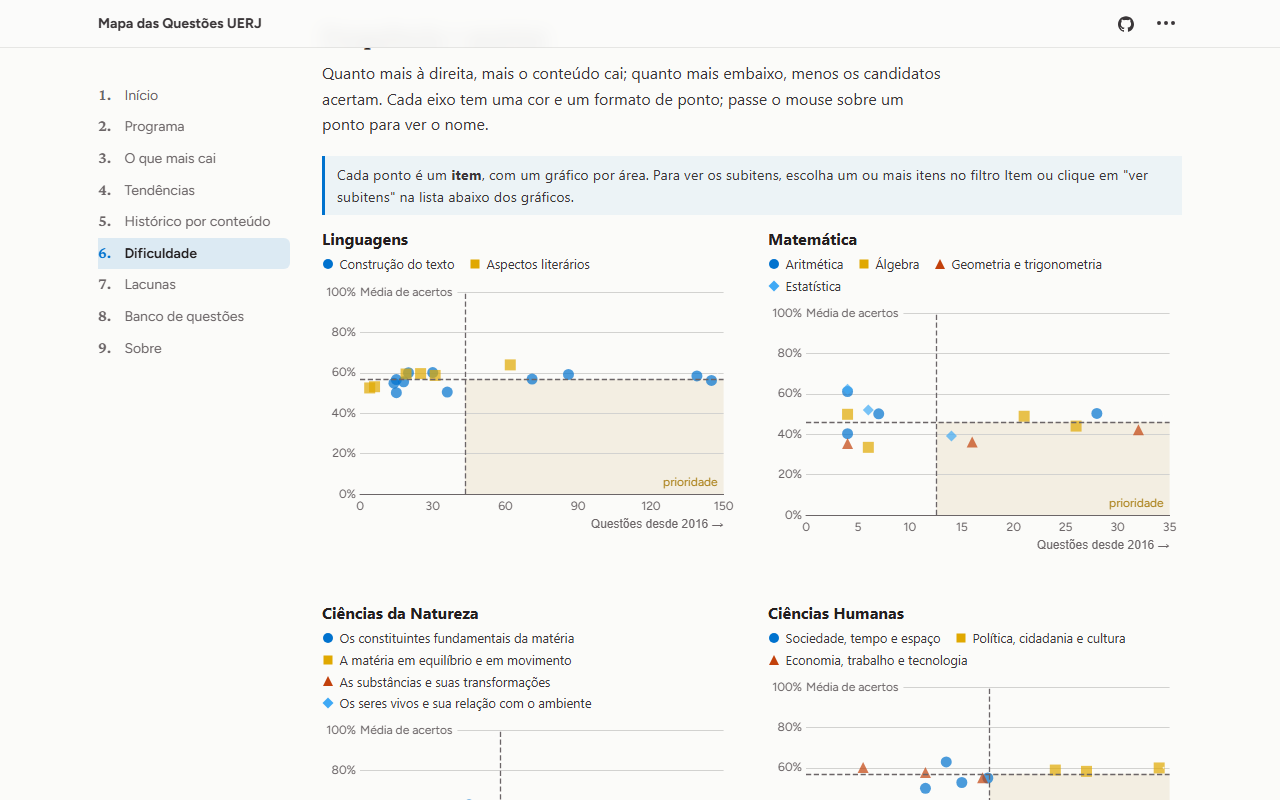
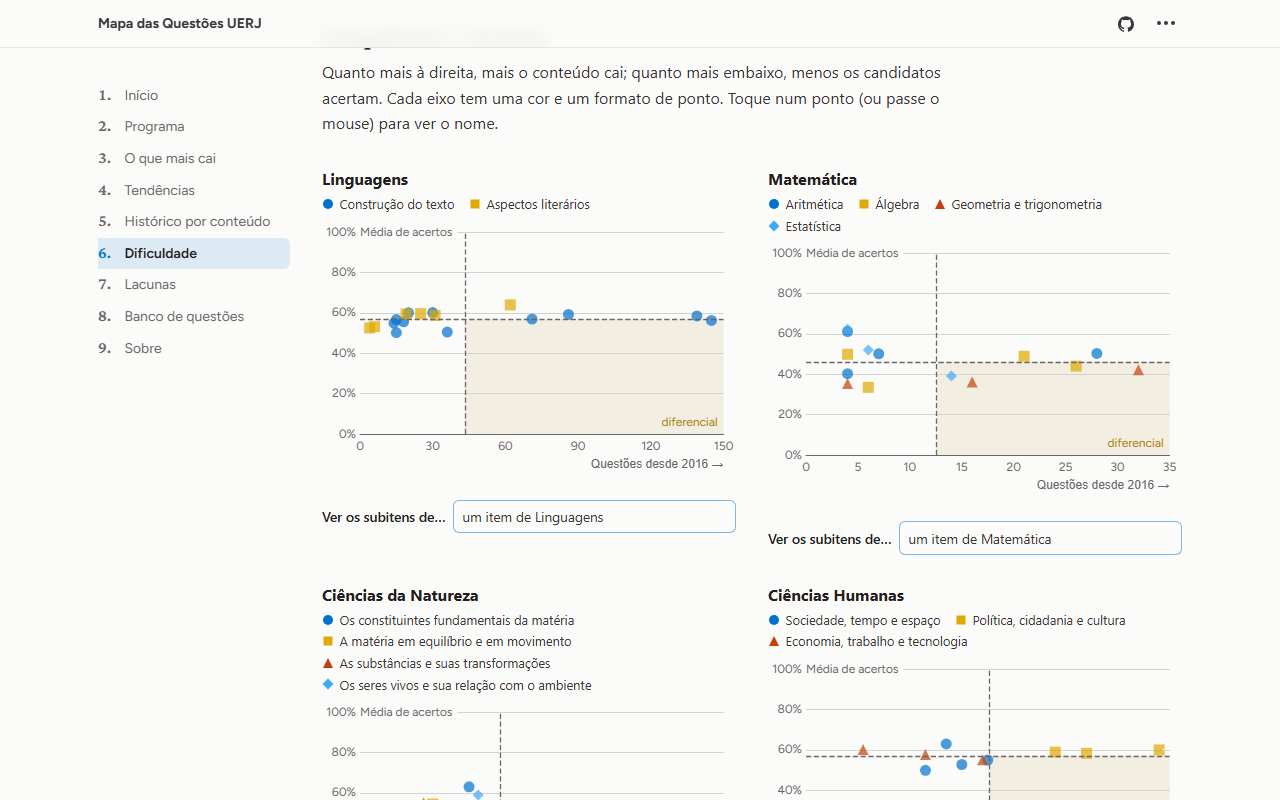
Dificuldade: "prioridade" vira "diferencial"
A faixa do gráfico (cai mais e acerta menos que a média) passa a se chamar
"diferencial": saber esses conteúdos destaca o candidato, porque a maioria erra.
O ranking de erros vira "Onde mais se perde ponto". Sobre, Início e README
acompanham.

diff --git a/site/pages/dificuldade.md b/site/pages/dificuldade.md
@@ -1,6 +1,6 @@
 ---
 title: Dificuldade
-description: Onde os candidatos mais erram e o que cai muito e tem poucos acertos, por item e por subitem.
+description: Onde os candidatos mais erram e o que é um diferencial saber, por item e por subitem.
 sidebar_position: 6
 ---
 
@@ -23,7 +23,7 @@ sidebar_position: 6
   const limparFiltros = () => (sel = conteudo.inicial(hier));
 
   // Nível do detalhe: com todos os itens marcados, a página mostra itens; com só alguns itens marcados, mostra os
-  // subitens deles. Toda a página (prioridade, gráficos, listas) segue o mesmo nível.
+  // subitens deles. Toda a página (pontos perdidos, gráficos, listas) segue o mesmo nível.
   $: porSubitem = !!sel && (opc.itens ?? []).length > 0 && sel.itens.length < opc.itens.length;
   $: nivel = porSubitem ? 'subitem' : 'item';
   $: Nivel = porSubitem ? 'Subitem' : 'Item';
@@ -90,7 +90,7 @@ sidebar_position: 6
       : lista.sort((a, b) => AREAS.indexOf(a.chave) - AREAS.indexOf(b.chave));
   })();
   const opcoesGrafico = (g) => ({ series: g.eixos.map((e) => ({ symbol: estiloEixo[e]?.forma ?? 'circle' })) });
-  $: naPrioridade = grupos
+  $: naFaixaDiferencial = grupos
     .flatMap((g) =>
       g.pontos.length > 1 ? g.pontos.filter((p) => Number(p.questoes) > g.mediaQ && Number(p.media) < g.mediaA) : []
     )
@@ -105,7 +105,8 @@ poucos acertos**. Dá para ver por **item** e descer até os **subitens** de cad
 
 <ol class="como-usar">
   <li>Escolha a área, o eixo ou o item nos filtros, ou deixe tudo marcado.</li>
-  <li>Veja o que está na faixa de <b>prioridade</b> do gráfico de frequência × acertos e na lista logo abaixo dele.</li>
+  <li>Veja o que está na faixa de <b>diferencial</b> do gráfico de frequência × acertos e na lista logo abaixo dele:
+  conteúdos que caem bastante e que a maioria erra.</li>
   <li>Para ver os <b>subitens</b> de um item, toque em "ver subitens" na lista, use "Ver os subitens de…" embaixo de cada
   gráfico ou marque o item no filtro Item.</li>
 </ol>
@@ -176,12 +177,12 @@ where d.nivel in ${inputs.niveis_dificuldade.value}
     and d.qtd_questoes >= ${inputs.minimo.value}
 ```
 
-## Prioridade de estudo
+## Onde mais se perde ponto
 
 Para cada {nivel}, as questões desde 2016 vezes a taxa de erro média: quantas dessas questões um candidato típico
-errou. Quanto maior, mais o conteúdo pesa e mais derruba.
+errou. São os pontos que a maioria deixa na prova.
 
-```sql prioridade
+```sql pontos_perdidos
 select
     case when length(r) > 48 then left(r, 47) || '…' else r end as rotulo,
     area,
@@ -199,7 +200,7 @@ limit 15
 ```
 
 <BarChart
-  data={prioridade}
+  data={pontos_perdidos}
   x=rotulo
   y=erros_esperados
   series=area
@@ -262,7 +263,7 @@ um formato de ponto. Toque num ponto (ou passe o mouse) para ver o nome.
       chartAreaHeight=220
     >
       {#if g.pontos.length > 1}
-        <ReferenceArea xMin={g.mediaQ} yMin={0} yMax={g.mediaA} color="accent" label="prioridade" labelPosition="bottomRight" />
+        <ReferenceArea xMin={g.mediaQ} yMin={0} yMax={g.mediaA} color="accent" label="diferencial" labelPosition="bottomRight" />
         <ReferenceLine y={g.mediaA} hideValue=true lineType=dashed />
         <ReferenceLine x={g.mediaQ} hideValue=true lineType=dashed />
       {/if}
@@ -286,13 +287,14 @@ um formato de ponto. Toque num ponto (ou passe o mouse) para ver o nome.
   <span><svg width="28" height="10" aria-hidden="true"><line x1="0" y1="5" x2="28" y2="5" class="tracejado" /></svg>
     <span>média do gráfico: a linha em pé marca o número médio de questões; a deitada, a média de acertos</span></span>
   <span><svg width="28" height="12" aria-hidden="true"><rect width="28" height="12" class="faixa" /></svg>
-    <span><b>prioridade</b>: cai mais que a média e tem menos acertos que a média. Comece por eles.</span></span>
+    <span><b>diferencial</b>: cai mais que a média e tem menos acertos que a média. Saber esses conteúdos é um
+    diferencial, porque a maioria erra.</span></span>
 </div>
 
-### Na faixa de prioridade
+### Conteúdos que são um diferencial
 
-{#if naPrioridade.length}
-<div class="tabela-prioridade">
+{#if naFaixaDiferencial.length}
+<div class="tabela-diferencial">
 <table>
   <thead>
     <tr>
@@ -305,7 +307,7 @@ um formato de ponto. Toque num ponto (ou passe o mouse) para ver o nome.
     </tr>
   </thead>
   <tbody>
-    {#each naPrioridade as p (p.id_conteudo)}
+    {#each naFaixaDiferencial as p (p.id_conteudo)}
       <tr>
         <td>{p.conteudo}<span class="acima-celular">{porSubitem ? p.item : p.eixo}</span></td>
         <td class="opcional">{porSubitem ? p.item : p.eixo}</td>
@@ -320,7 +322,7 @@ um formato de ponto. Toque num ponto (ou passe o mouse) para ver o nome.
 </div>
 <p class="nota">* Erradas: quantas dessas questões um candidato típico errou (questões × taxa de erro).</p>
 {:else}
-<p class="vazio">Nenhum conteúdo na faixa de prioridade nesta seleção.</p>
+<p class="vazio">Nenhum conteúdo na faixa de diferencial nesta seleção.</p>
 {/if}
 
 ## {porSubitem ? 'Todos os subitens' : 'Todos os itens'}
@@ -441,12 +443,12 @@ A média é a das questões da seleção dos filtros. Faltam 2021, 2024-2 e 2027
   .tracejado { stroke: hsl(var(--twc-base-content-muted)); stroke-width: 1.3; stroke-dasharray: 4 3; }
   .faixa { fill: hsl(var(--twc-accent) / 0.25); }
 
-  .tabela-prioridade { overflow-x: auto; }
-  .tabela-prioridade table { width: 100%; border-collapse: collapse; font-size: 0.875rem; }
-  .tabela-prioridade th { text-align: left; font-weight: 650; padding: 0.4rem 0.5rem;
+  .tabela-diferencial { overflow-x: auto; }
+  .tabela-diferencial table { width: 100%; border-collapse: collapse; font-size: 0.875rem; }
+  .tabela-diferencial th { text-align: left; font-weight: 650; padding: 0.4rem 0.5rem;
                           border-bottom: 1px solid hsl(var(--twc-base-content) / 0.3); color: hsl(var(--twc-base-heading)); }
-  .tabela-prioridade td { padding: 0.45rem 0.5rem; border-bottom: 1px solid hsl(var(--twc-base-content) / 0.1); vertical-align: top; }
-  .tabela-prioridade .num { text-align: right; font-variant-numeric: tabular-nums; }
+  .tabela-diferencial td { padding: 0.45rem 0.5rem; border-bottom: 1px solid hsl(var(--twc-base-content) / 0.1); vertical-align: top; }
+  .tabela-diferencial .num { text-align: right; font-variant-numeric: tabular-nums; }
   .acima-celular { display: none; font-size: 0.78rem; color: hsl(var(--twc-base-content-muted)); }
   .ver { white-space: nowrap; padding: 0.3rem 0.6rem; border-radius: 5px; font-size: 0.8rem; font-weight: 600;
          border: 1px solid hsl(var(--twc-primary) / 0.5); color: hsl(var(--twc-primary)); background: transparent; }
@@ -458,9 +460,9 @@ A média é a das questões da seleção dos filtros. Faltam 2021, 2024-2 e 2027
     .passo { display: none; }
     .voltar { margin-left: 0; width: 100%; }
     .detalhar select { flex-basis: 100%; }
-    /* na lista de prioridade, o eixo (ou item) vai para baixo do nome e a coluna dele some */
-    .tabela-prioridade .opcional { display: none; }
+    /* na lista de diferencial, o eixo (ou item) vai para baixo do nome e a coluna dele some */
+    .tabela-diferencial .opcional { display: none; }
     .acima-celular { display: block; }
-    .tabela-prioridade td, .tabela-prioridade th { padding: 0.45rem 0.3rem; }
+    .tabela-diferencial td, .tabela-diferencial th { padding: 0.45rem 0.3rem; }
   }
 </style>

diff --git a/README.md b/README.md
@@ -24,7 +24,7 @@ e mostra em que conteúdo do programa cada uma caiu, segundo o gabarito comentad
 
 - **Ver o que mais cai**, filtrando por vestibular, exame, área, disciplina, eixo e item.
 - **Acompanhar tendências:** o que cai em quase toda prova, o que está em alta e o que sumiu mas costuma voltar.
-- **Achar a prioridade de estudo:** o que cai muito e tem poucos acertos.
+- **Descobrir o diferencial:** o que cai bastante e a maioria erra.
 - **Consultar o programa inteiro**, com busca e o que já caiu de cada conteúdo.
 - **Ver o que nunca caiu** e está no edital.
 - **Abrir qualquer questão** no PDF oficial da prova ou do gabarito comentado, direto na página dela.
@@ -32,11 +32,11 @@ e mostra em que conteúdo do programa cada uma caiu, segundo o gabarito comentad
 <table>
   <tr>
     <td><img src="docs/imagens/o-que-mais-cai.png" alt="Ranking dos itens que mais caem, por área"></td>
-    <td><img src="docs/imagens/dificuldade.png" alt="Frequência × acertos por área, com a faixa de prioridade"></td>
+    <td><img src="docs/imagens/dificuldade.png" alt="Frequência × acertos por área, com a faixa de diferencial"></td>
   </tr>
   <tr>
     <td align="center">O que mais cai</td>
-    <td align="center">Dificuldade e prioridade de estudo</td>
+    <td align="center">Dificuldade: o que é diferencial saber</td>
   </tr>
   <tr>
     <td><img src="docs/imagens/historico.png" alt="Mapa de calor dos itens de um eixo, exame a exame"></td>

diff --git a/site/pages/sobre.md b/site/pages/sobre.md
@@ -59,7 +59,8 @@ simulados.
 | **Intervalo normal** | O número médio de exames entre uma cobrança e a seguinte. |
 | **Atraso** | Exames desde a última cobrança divididos pelo intervalo normal (só para o que caiu 3 vezes ou mais). |
 | **Sumido que costuma voltar** | Do edital vigente, caiu 3 vezes ou mais e está com atraso de 1,5 ou mais (no mínimo 2 exames sem cair). |
-| **Prioridade de estudo** | Questões do item × taxa média de erro: quantas questões do item um candidato típico errou. |
+| **Pontos perdidos** | Questões do conteúdo × taxa média de erro: quantas dessas questões um candidato típico errou. |
+| **Diferencial** | Conteúdo que cai mais que a média e tem menos acertos que a média: saber é um diferencial, porque a maioria erra. |
 | **Lacuna** | Subitem do edital de 2027 em que nenhuma questão foi classificada desde 2016. *Antiga*: está no edital desde antes de 2021; *recente*: entrou em 2021 ou depois. Lacuna não quer dizer que não vai cair. |
 
 Todos descrevem o que já aconteceu. A banca não segue uma fila, então nenhum deles é previsão da próxima prova.

diff --git a/site/pages/index.md b/site/pages/index.md
@@ -150,7 +150,7 @@ Ciências da Natureza ganha espaço e Linguagens perde.
   <a href="/painel"><b>O que mais cai</b><span>Filtre vestibular, exame, área, disciplina, eixo e item e veja o ranking em cada nível, com as questões e os links das provas.</span></a>
   <a href="/tendencias"><b>Tendências</b><span>O que está em alta, o que caiu em quase toda prova e o que sumiu mas costuma voltar.</span></a>
   <a href="/historico"><b>Histórico por conteúdo</b><span>Exame a exame, em que prova cada item e subitem caiu desde 2016.</span></a>
-  <a href="/dificuldade"><b>Dificuldade</b><span>Onde os candidatos mais erram e o que cai muito e tem poucos acertos.</span></a>
+  <a href="/dificuldade"><b>Dificuldade</b><span>Onde os candidatos mais erram e o que é um diferencial saber: o que cai bastante e a maioria erra.</span></a>
   <a href="/lacunas"><b>Lacunas</b><span>O que está no edital de 2027 e nunca caiu.</span></a>
   <a href="/questoes"><b>Banco de questões</b><span>Todas as questões com filtros, classificação e links para a prova e o gabarito comentado.</span></a>
 </div>
